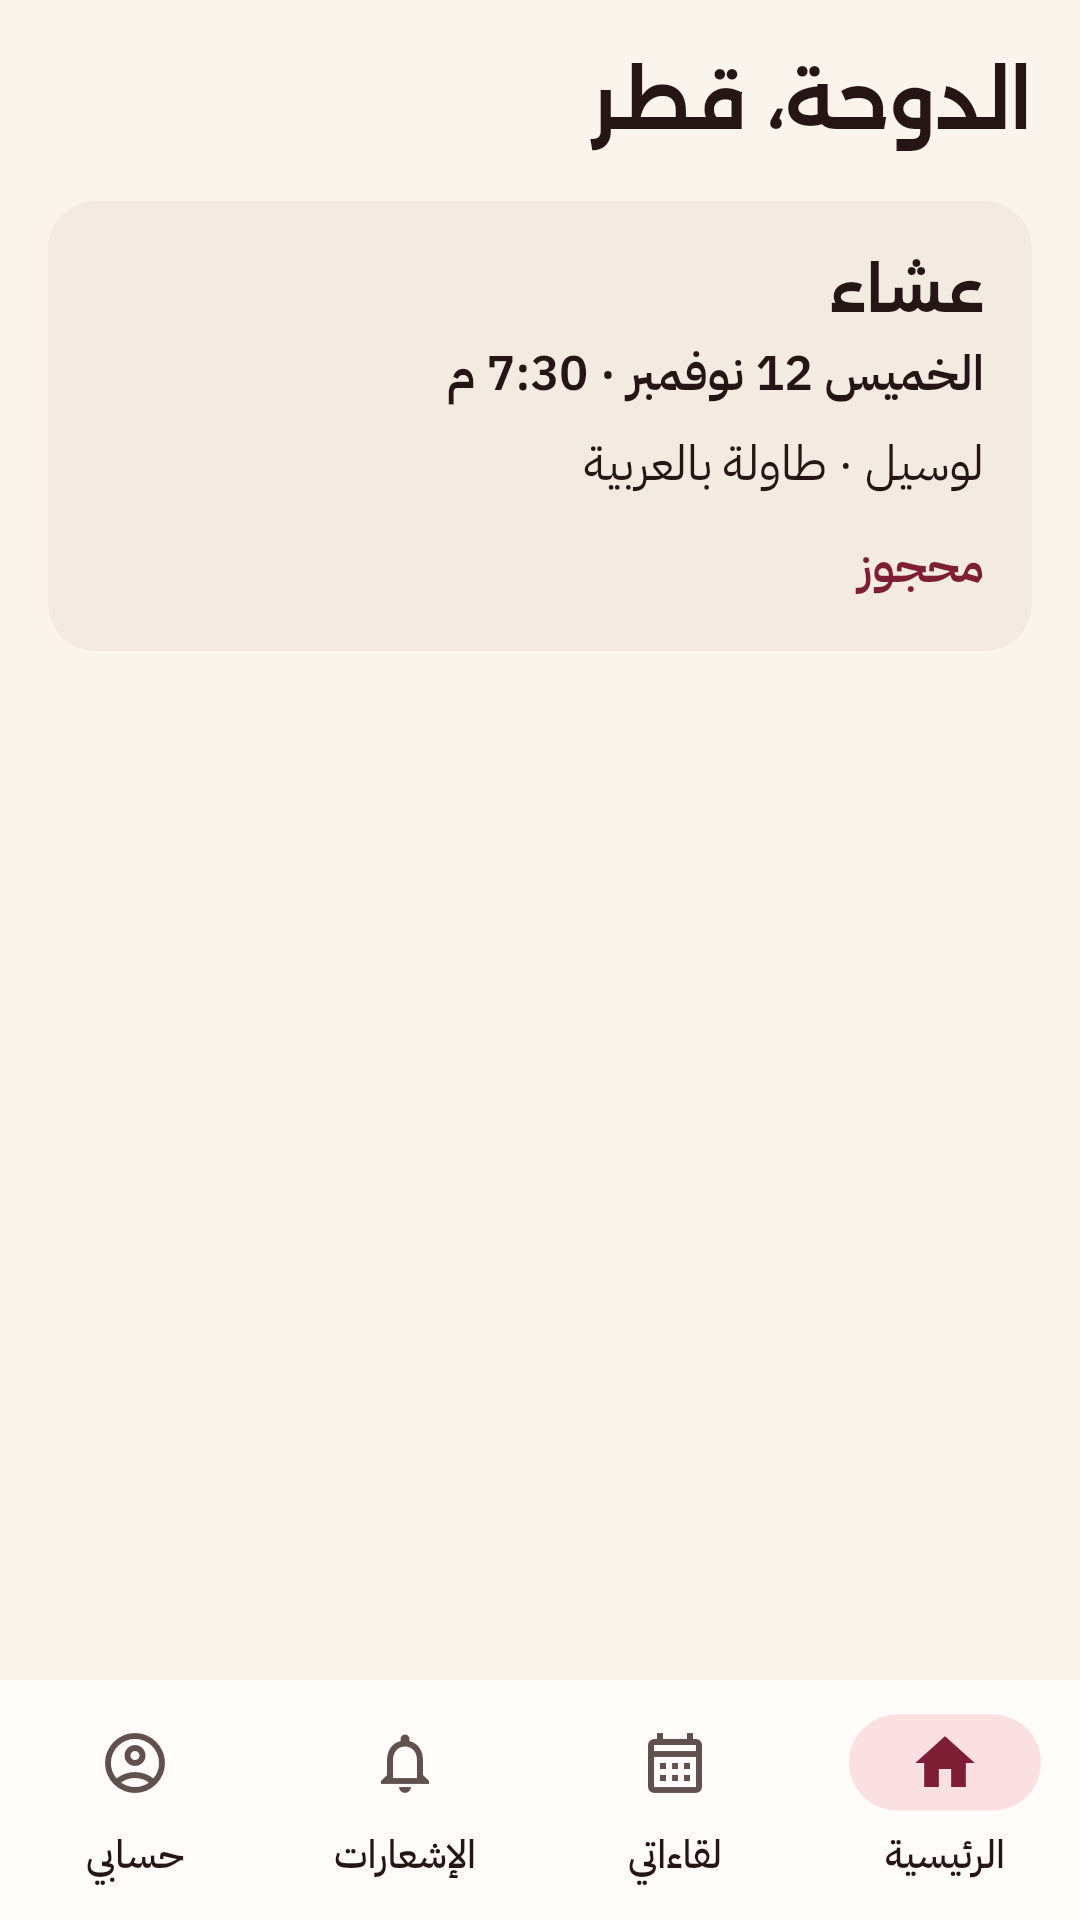
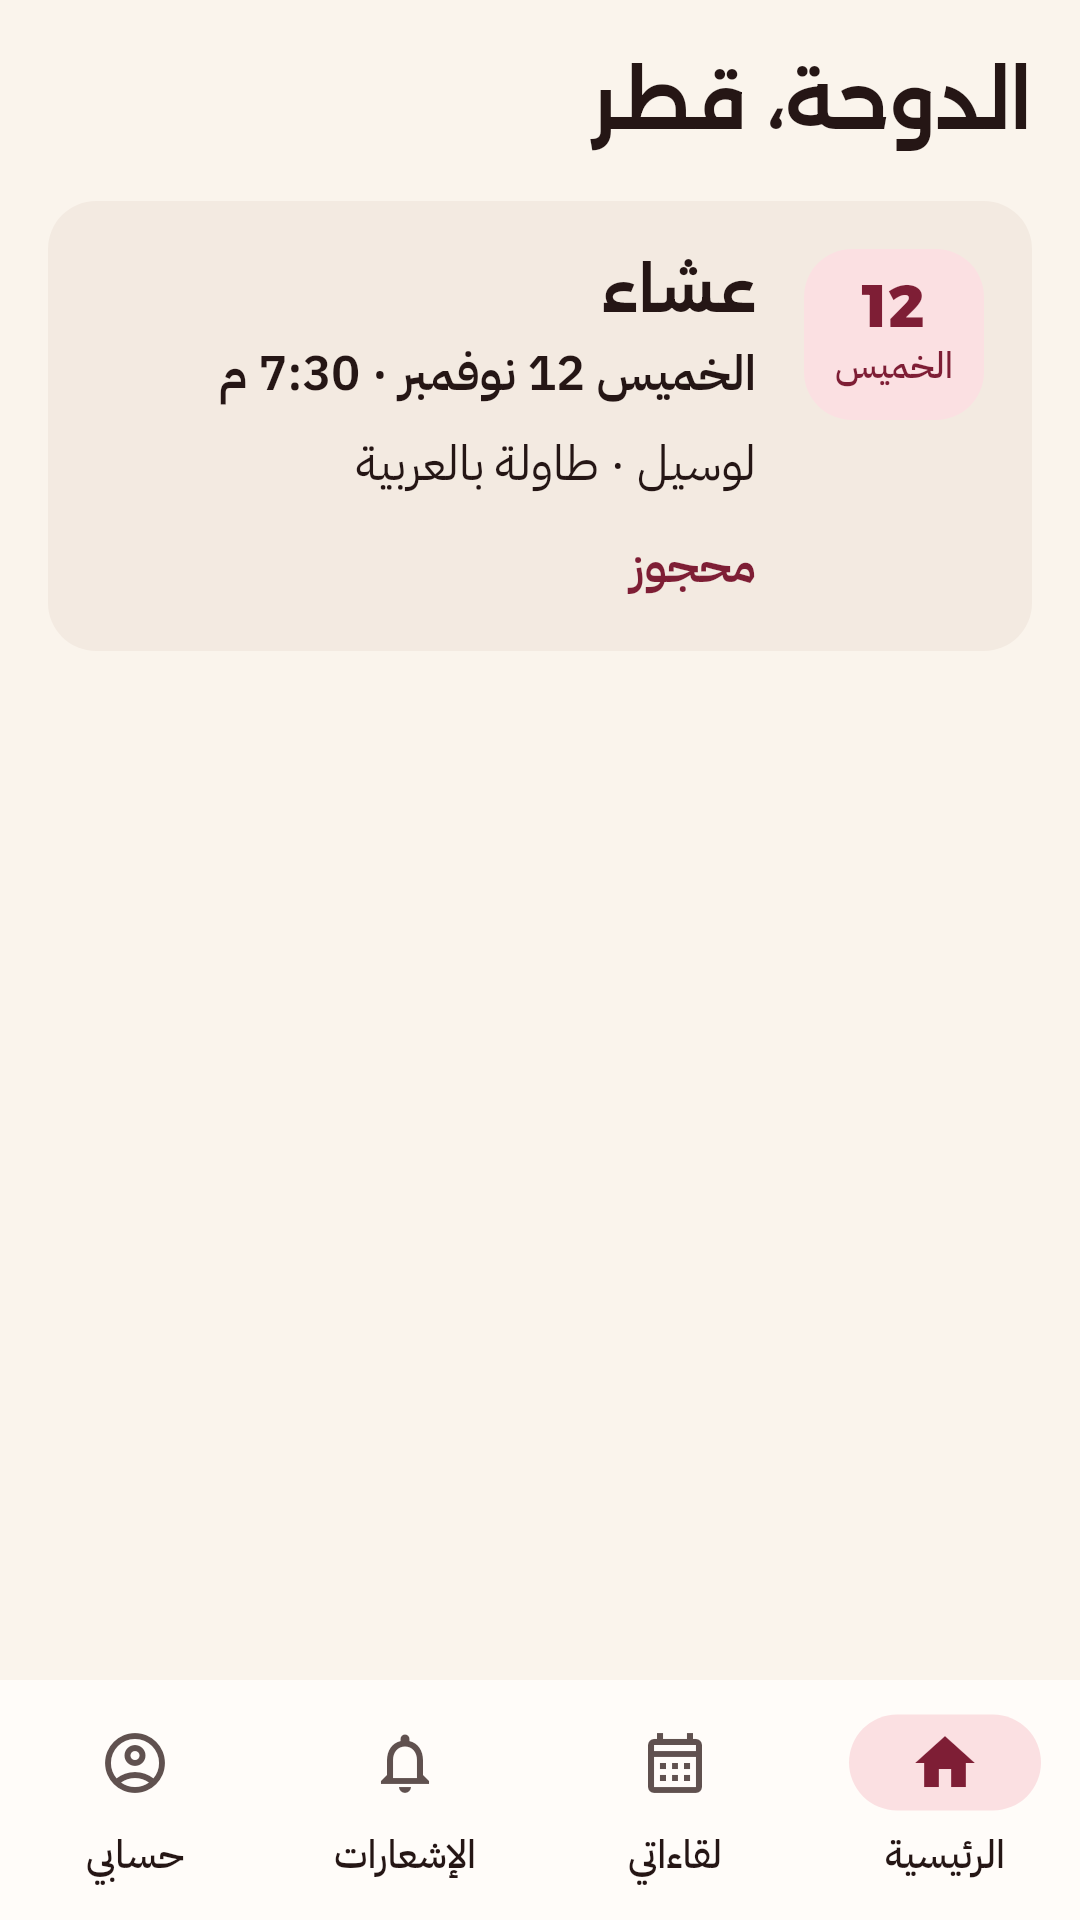
Visible redesign (Flutter app): wine next-meetup card, calendar-leaf dates, skeleton loading, list entrance
Same look and motion as the website (owner's choice, 5 Nov); headings unchanged.
- My meetups: the soonest upcoming meetup is the one filled card (brand colour, on-colour text,
  inverted button); the others stay a plain list. Strings reused from the website:
  "لقاؤك القادم" / "Your next event", "جارٍ التحميل…" / "Loading…"
- session cards: the date as a tinted calendar leaf (decoration, excluded from semantics)
- loading: SkeletonList (title and three cards, slow fade) instead of a spinner in Loader
- RiseIn: list items fade and lift in one after another, one controller and no timers
- both motion widgets stand still under the device's reduced-motion setting
- tests: next-meetup card colour, date leaf, skeleton and RiseIn with and without reduced motion
- store screenshots (iOS 6.9", Android) regenerated; handoff spec updated

flutter analyze: no issues; 43 app tests pass.

Claude-Session: https://claude.ai/code/session_01FEXgDqNsHx3oP1pnWG1BkE

diff --git a/qatar/app/lib/ui/common/motion.dart b/qatar/app/lib/ui/common/motion.dart
@@ -1,0 +1,117 @@
+import 'package:flutter/material.dart';
+
+import '../../design/herzone_tokens.dart';
+import '../theme.dart';
+
+/// Loading placeholder in the page's own rhythm (a title and three cards) instead of a spinner. It fades slowly in and
+/// out; when the device asks for reduced motion it stays still. Same shapes as the website's `.skel`.
+class SkeletonList extends StatefulWidget {
+  const SkeletonList({super.key, this.label});
+
+  /// Read out by screen readers while the page loads.
+  final String? label;
+
+  @override
+  State<SkeletonList> createState() => _SkeletonListState();
+}
+
+class _SkeletonListState extends State<SkeletonList> with SingleTickerProviderStateMixin {
+  late final AnimationController _c = AnimationController(vsync: this, duration: const Duration(milliseconds: 1400));
+  late final Animation<double> _fade = Tween<double>(begin: 1, end: 0.5).animate(CurvedAnimation(parent: _c, curve: Curves.easeInOut));
+  bool _running = false;
+
+  @override
+  void didChangeDependencies() {
+    super.didChangeDependencies();
+    final still = MediaQuery.of(context).disableAnimations;
+    if (still && _running) {
+      _c.stop();
+      _c.value = 0;
+      _running = false;
+    } else if (!still && !_running) {
+      _c.repeat(reverse: true);
+      _running = true;
+    }
+  }
+
+  @override
+  void dispose() {
+    _c.dispose();
+    super.dispose();
+  }
+
+  @override
+  Widget build(BuildContext context) {
+    final c = hzColors(context);
+    Widget box(double height, {double? widthFactor}) => FractionallySizedBox(
+          alignment: AlignmentDirectional.centerStart,
+          widthFactor: widthFactor ?? 1,
+          child: Container(height: height, decoration: BoxDecoration(color: c.surfaceSunken, borderRadius: BorderRadius.circular(HzRadius.md))),
+        );
+    return Semantics(
+      label: widget.label,
+      container: true,
+      child: ExcludeSemantics(
+        child: FadeTransition(
+          opacity: _fade,
+          child: ListView(
+            physics: const NeverScrollableScrollPhysics(),
+            padding: const EdgeInsets.all(HzSpace.gutter),
+            children: [
+              box(34, widthFactor: 0.55),
+              const SizedBox(height: HzSpace.s4),
+              box(92),
+              const SizedBox(height: HzSpace.s3),
+              box(92),
+              const SizedBox(height: HzSpace.s3),
+              box(64, widthFactor: 0.8),
+            ],
+          ),
+        ),
+      ),
+    );
+  }
+}
+
+/// Fades and lifts a list item into place, each [index] a little after the one before (like the website's lists).
+/// One controller, no timers: the item at [index] simply starts later in the same 600 ms. Shown at once when the device
+/// asks for reduced motion.
+class RiseIn extends StatefulWidget {
+  const RiseIn({super.key, required this.index, required this.child});
+
+  final int index;
+  final Widget child;
+
+  @override
+  State<RiseIn> createState() => _RiseInState();
+}
+
+class _RiseInState extends State<RiseIn> with SingleTickerProviderStateMixin {
+  late final AnimationController _c = AnimationController(vsync: this, duration: const Duration(milliseconds: 600));
+  Animation<double>? _a;
+
+  @override
+  void didChangeDependencies() {
+    super.didChangeDependencies();
+    if (_a != null) return;
+    final start = widget.index.clamp(0, 5) * 0.08;
+    _a = CurvedAnimation(parent: _c, curve: Interval(start, 1, curve: Curves.easeOutCubic));
+    if (MediaQuery.of(context).disableAnimations) {
+      _c.value = 1;
+    } else {
+      _c.forward();
+    }
+  }
+
+  @override
+  void dispose() {
+    _c.dispose();
+    super.dispose();
+  }
+
+  @override
+  Widget build(BuildContext context) => FadeTransition(
+        opacity: _a!,
+        child: SlideTransition(position: Tween<Offset>(begin: const Offset(0, 0.06), end: Offset.zero).animate(_a!), child: widget.child),
+      );
+}

diff --git a/qatar/app/test/redesign_test.dart b/qatar/app/test/redesign_test.dart
@@ -1,0 +1,58 @@
+import 'package:flutter/material.dart';
+import 'package:flutter_test/flutter_test.dart';
+import 'package:herzone/app/app.dart';
+import 'package:herzone/core/token_store.dart';
+import 'package:herzone/data/onboarding.dart';
+import 'package:herzone/data/trip_store.dart';
+import 'package:herzone/design/herzone_tokens.dart';
+import 'package:herzone/ui/common/motion.dart';
+import 'package:herzone/ui/theme.dart';
+
+import 'meetups_test.dart' show api, bookingId, tallScreen;
+import 'sign_in_flow_test.dart' show config;
+
+Widget _host(Widget child, {bool reduceMotion = false}) => MaterialApp(
+      theme: herZoneTheme(Brightness.light, 'ar'),
+      builder: (context, w) => MediaQuery(data: MediaQuery.of(context).copyWith(disableAnimations: reduceMotion), child: w!),
+      home: Scaffold(body: child),
+    );
+
+void main() {
+  testWidgets('my meetups: the next meetup is the one filled card, in the brand colour', (tester) async {
+    tallScreen(tester);
+    await tester.pumpWidget(HerZoneApp(config: config, tokens: MemoryTokenStore()..token = 'rt_1', trips: MemoryTripStore(), quizStore: QuizStore.memory(), httpClientFactory: () => api(online: () => true)));
+    await tester.pumpAndSettle();
+    await tester.tap(find.text('لقاءاتي').last);
+    await tester.pumpAndSettle();
+    expect(find.text('لقاؤك القادم'), findsOneWidget);
+    final card = tester.widget<Material>(find.byKey(const Key('booking-$bookingId')));
+    expect(card.color, HzColors.light.primary);
+  });
+
+  testWidgets('home: each session card carries its date as a calendar leaf', (tester) async {
+    tallScreen(tester);
+    await tester.pumpWidget(HerZoneApp(config: config, tokens: MemoryTokenStore()..token = 'rt_1', trips: MemoryTripStore(), quizStore: QuizStore.memory(), httpClientFactory: () => api(online: () => true)));
+    await tester.pumpAndSettle();
+    expect(find.descendant(of: find.byKey(const Key('session-s1')), matching: find.text('12')), findsOneWidget, reason: 'the day of the month, Western digits');
+    expect(find.descendant(of: find.byKey(const Key('session-s1')), matching: find.text('الخميس')), findsWidgets);
+  });
+
+  testWidgets('loading placeholder: it pulses, and stands still when the device asks for reduced motion', (tester) async {
+    await tester.pumpWidget(_host(const SkeletonList(label: 'جارٍ التحميل…')));
+    await tester.pump(const Duration(milliseconds: 300));
+    expect(tester.hasRunningAnimations, true, reason: 'a slow fade while loading');
+    await tester.pumpWidget(_host(const SkeletonList(label: 'جارٍ التحميل…'), reduceMotion: true));
+    await tester.pumpAndSettle(); // would time out if it kept animating
+    expect(find.bySemanticsLabel('جارٍ التحميل…'), findsOneWidget);
+  });
+
+  testWidgets('list items rise in one after another, and appear at once under reduced motion', (tester) async {
+    double opacityOf(WidgetTester t) => t.widget<FadeTransition>(find.descendant(of: find.byType(RiseIn), matching: find.byType(FadeTransition)).first).opacity.value;
+    await tester.pumpWidget(_host(const RiseIn(index: 3, child: Text('x'))));
+    expect(opacityOf(tester), lessThan(1), reason: 'starts hidden, arrives after the items before it');
+    await tester.pumpAndSettle();
+    expect(opacityOf(tester), 1);
+    await tester.pumpWidget(_host(const RiseIn(index: 3, child: Text('y')), reduceMotion: true));
+    expect(opacityOf(tester), 1, reason: 'no motion when it is not wanted');
+  });
+}

diff --git a/qatar/app/lib/ui/meetups/home_tab.dart b/qatar/app/lib/ui/meetups/home_tab.dart
@@ -8,6 +8,7 @@ import '../../design/herzone_tokens.dart';
 import '../../domain/locale_controller.dart';
 import '../../l10n/app_localizations.dart';
 import '../common/loader.dart';
+import '../common/motion.dart';
 import '../format.dart';
 import '../theme.dart';
 import '../common/test_id.dart';
@@ -31,7 +32,7 @@ class HomeTab extends StatelessWidget {
           Text(t.cityFull, style: Theme.of(context).textTheme.headlineMedium),
           const SizedBox(height: HzSpace.s4),
           if (sessions.isEmpty) Text(t.noSessions),
-          for (final s in sessions) _SessionCard(s),
+          for (final (i, s) in sessions.indexed) RiseIn(index: i, child: _SessionCard(s)),
         ]),
       ),
     );
@@ -61,14 +62,31 @@ class _SessionCard extends StatelessWidget {
                 : () => context.push('/book', extra: s),
         child: Padding(
           padding: const EdgeInsets.all(HzSpace.s4),
-          child: Column(crossAxisAlignment: CrossAxisAlignment.start, children: [
-            // the experience, then the date on its own line: a "·" never dangles at the end of a wrapped line
-            Text(experienceName(t, s.experience), style: Theme.of(context).textTheme.titleLarge),
-            Text(fmtWhen(s.startsAt, lang), style: Theme.of(context).textTheme.titleMedium),
-            const SizedBox(height: HzSpace.s1),
-            Text('${s.district} · ${s.language == 'ar' ? t.langAr : t.langEn}'),
-            const SizedBox(height: HzSpace.s2),
-            Text(status, style: TextStyle(color: s.isFull && s.myBookingId == null ? c.danger : c.primary, fontWeight: FontWeight.w600)),
+          child: Row(crossAxisAlignment: CrossAxisAlignment.start, children: [
+            // the date as a calendar leaf, as on the website (decoration: the date line beside it says the same)
+            ExcludeSemantics(
+              child: Container(
+                width: 60,
+                padding: const EdgeInsets.symmetric(vertical: HzSpace.s2),
+                decoration: BoxDecoration(color: c.primarySubtle, borderRadius: BorderRadius.circular(HzRadius.md)),
+                child: Column(children: [
+                  Text(fmtDay(s.startsAt), style: Theme.of(context).textTheme.headlineSmall?.copyWith(color: c.primary, fontWeight: FontWeight.w800, height: 1.05)),
+                  Text(fmtWeekday(s.startsAt, lang), maxLines: 1, overflow: TextOverflow.ellipsis, style: Theme.of(context).textTheme.labelSmall?.copyWith(color: c.primary)),
+                ]),
+              ),
+            ),
+            const SizedBox(width: HzSpace.s4),
+            Expanded(
+              child: Column(crossAxisAlignment: CrossAxisAlignment.start, children: [
+                // the experience, then the date on its own line: a "·" never dangles at the end of a wrapped line
+                Text(experienceName(t, s.experience), style: Theme.of(context).textTheme.titleLarge),
+                Text(fmtWhen(s.startsAt, lang), style: Theme.of(context).textTheme.titleMedium),
+                const SizedBox(height: HzSpace.s1),
+                Text('${s.district} · ${s.language == 'ar' ? t.langAr : t.langEn}'),
+                const SizedBox(height: HzSpace.s2),
+                Text(status, style: TextStyle(color: s.isFull && s.myBookingId == null ? c.danger : c.primary, fontWeight: FontWeight.w600)),
+              ]),
+            ),
           ]),
         ),
       ),

diff --git a/qatar/app/lib/ui/meetups/events_tab.dart b/qatar/app/lib/ui/meetups/events_tab.dart
@@ -9,6 +9,7 @@ import '../../domain/locale_controller.dart';
 import '../../l10n/app_localizations.dart';
 import '../common/loader.dart';
 import '../format.dart';
+import '../theme.dart';
 import 'home_tab.dart' show experienceName;
 import '../common/test_id.dart';
 
@@ -28,11 +29,15 @@ class EventsTab extends StatelessWidget {
         builder: (context, all, _) {
           final upcoming = all.where((b) => b.isActive).toList()..sort((a, b) => a.startsAt.compareTo(b.startsAt));
           final past = all.where((b) => !b.isActive).toList();
+          // the soonest upcoming meetup is the one filled card; the rest stay a plain list
+          final next = upcoming.isEmpty ? null : upcoming.first;
+          final rest = [...upcoming.skip(1), ...past];
           return ListView(padding: const EdgeInsets.all(HzSpace.gutter), children: [
             Text(t.tabEvents, style: Theme.of(context).textTheme.headlineMedium),
             const SizedBox(height: HzSpace.s4),
             if (all.isEmpty) ...[Text(t.noBookings), const SizedBox(height: HzSpace.s2), Text(t.bookOnWeb)],
-            for (final b in [...upcoming, ...past])
+            if (next != null) ...[_NextMeetupCard(b: next, lang: lang), const SizedBox(height: HzSpace.s4)],
+            for (final b in rest)
               TestId('booking-${b.id}', child: ListTile(
                 key: Key('booking-${b.id}'),
                 contentPadding: EdgeInsets.zero,
@@ -45,5 +50,48 @@ class EventsTab extends StatelessWidget {
         },
       ),
     );
+  }
+}
+
+/// "Your next event": the one filled card on this screen, in the brand colour with the on-colour text (as on the website).
+class _NextMeetupCard extends StatelessWidget {
+  const _NextMeetupCard({required this.b, required this.lang});
+
+  final BookingSummary b;
+  final String lang;
+
+  @override
+  Widget build(BuildContext context) {
+    final t = AppLocalizations.of(context);
+    final c = hzColors(context);
+    final tt = Theme.of(context).textTheme;
+    final soft = c.onPrimary.withValues(alpha: 0.88);
+    void open() => context.push('/booking/${b.id}');
+    return TestId('booking-${b.id}', child: Material(
+      key: Key('booking-${b.id}'),
+      color: c.primary,
+      borderRadius: BorderRadius.circular(HzRadius.xl),
+      child: InkWell(
+        borderRadius: BorderRadius.circular(HzRadius.xl),
+        onTap: open,
+        child: Padding(
+          padding: const EdgeInsets.all(HzSpace.s5),
+          child: Column(crossAxisAlignment: CrossAxisAlignment.start, children: [
+            Text(t.nextEvent, style: tt.labelMedium?.copyWith(color: soft)),
+            const SizedBox(height: HzSpace.s2),
+            Text(experienceName(t, b.experience), style: tt.headlineSmall?.copyWith(color: c.onPrimary)),
+            Text(fmtWhen(b.startsAt, lang), style: tt.titleMedium?.copyWith(color: c.onPrimary)),
+            const SizedBox(height: HzSpace.s1),
+            Text('${b.district} · ${t.bookingRef} ${b.ref}', style: tt.bodyMedium?.copyWith(color: soft)),
+            const SizedBox(height: HzSpace.s4),
+            FilledButton(
+              onPressed: open,
+              style: FilledButton.styleFrom(backgroundColor: c.onPrimary, foregroundColor: c.primary),
+              child: Text(t.viewDetails),
+            ),
+          ]),
+        ),
+      ),
+    ));
   }
 }

diff --git a/qatar/app/lib/ui/common/loader.dart b/qatar/app/lib/ui/common/loader.dart
@@ -4,6 +4,7 @@ import '../../core/api_error.dart';
 import '../../design/herzone_tokens.dart';
 import '../../l10n/app_localizations.dart';
 import '../auth/widgets.dart';
+import 'motion.dart';
 
 /// Loads data for a screen and shows loading, error (with retry) or the content. Pull to refresh reloads.
 class Loader<T> extends StatefulWidget {
@@ -29,7 +30,7 @@ class _LoaderState<T> extends State<Loader<T>> {
   Widget build(BuildContext context) => FutureBuilder<T>(
         future: _future,
         builder: (context, snap) {
-          if (snap.connectionState != ConnectionState.done) return const Center(child: CircularProgressIndicator());
+          if (snap.connectionState != ConnectionState.done) return SkeletonList(label: AppLocalizations.of(context).loading);
           if (snap.hasError) {
             final e = snap.error is ApiError ? snap.error as ApiError : const ApiError(status: 0, code: 'UNKNOWN', message: '');
             return ListView(padding: const EdgeInsets.all(HzSpace.gutter), children: [

diff --git a/qatar/app/lib/ui/format.dart b/qatar/app/lib/ui/format.dart
@@ -13,3 +13,7 @@ String _glueTime(String s) => s.replaceAllMapped(RegExp(r'(\d)[ \u202F](م|ص|AM
 String fmtWhen(String iso, String locale) => _glueTime(latinDigits(DateFormat('EEEE d MMMM · h:mm a', locale).format(qatarTime(iso))));
 
 String fmtTime(String iso, String locale) => _glueTime(latinDigits(DateFormat('h:mm a', locale).format(qatarTime(iso))));
+
+/// The day of the month and the weekday for the date "leaf" on session cards (Western digits, Doha time).
+String fmtDay(String iso) => latinDigits(DateFormat('d').format(qatarTime(iso)));
+String fmtWeekday(String iso, String locale) => DateFormat('EEEE', locale).format(qatarTime(iso));

diff --git a/qatar/app/lib/l10n/app_localizations.dart b/qatar/app/lib/l10n/app_localizations.dart
@@ -236,6 +236,18 @@ abstract class AppLocalizations {
   /// **'حاولي مرة أخرى'**
   String get retry;
 
+  /// No description provided for @nextEvent.
+  ///
+  /// In ar, this message translates to:
+  /// **'لقاؤك القادم'**
+  String get nextEvent;
+
+  /// No description provided for @loading.
+  ///
+  /// In ar, this message translates to:
+  /// **'جارٍ التحميل…'**
+  String get loading;
+
   /// No description provided for @signOut.
   ///
   /// In ar, this message translates to:

diff --git a/qatar/app/lib/l10n/app_localizations_ar.dart b/qatar/app/lib/l10n/app_localizations_ar.dart
@@ -85,6 +85,12 @@ class AppLocalizationsAr extends AppLocalizations {
   String get retry => 'حاولي مرة أخرى';
 
   @override
+  String get nextEvent => 'لقاؤك القادم';
+
+  @override
+  String get loading => 'جارٍ التحميل…';
+
+  @override
   String get signOut => 'تسجيل الخروج';
 
   @override

diff --git a/qatar/app/lib/l10n/app_localizations_en.dart b/qatar/app/lib/l10n/app_localizations_en.dart
@@ -86,6 +86,12 @@ class AppLocalizationsEn extends AppLocalizations {
   String get retry => 'Try again';
 
   @override
+  String get nextEvent => 'Your next event';
+
+  @override
+  String get loading => 'Loading…';
+
+  @override
   String get signOut => 'Sign out';
 
   @override

diff --git a/qatar/docs/design/handoff.md b/qatar/docs/design/handoff.md
@@ -55,7 +55,8 @@ Numbers use Western digits everywhere (web `fmtDate`, app `latinDigits`); prices
 ### Spacing, radius, motion
 Spacing `--s-1..12` = 4, 8, 12, 16, 20, 24, 32, 40, 48 px (Flutter `HzSpace.s1..s12`). Gutter 16–20 px.
 Radius: 10 (fields), 16 (cards, buttons), 24, pill. Elevation is flat: cards have no border and no shadow; only the top
-and tab bars have a soft scroll-edge shadow. Motion: 120 ms (press), 200 ms, 320 ms (page entrance), ease `cubic-bezier(0.2, 0, 0, 1)`.
+and tab bars have a soft scroll-edge shadow. Motion: 120 ms (press), 200 ms, 320 ms (page entrance), ease `cubic-bezier(0.2, 0, 0, 1)`. Headings stay light and modest (Alexandria 600; display 32 px, h1 26 px): the owner asked on 30 Oct for less weight and size, so
+visual emphasis comes from colour blocks and motion, not from larger headings.
 
 ## 3. Layout and breakpoints
 
@@ -84,6 +85,10 @@ Bottom space: `96px + safe-area` above the tab bar, `128px + safe-area` above a 
 | Tab bar | 4 items, 56 px tall, icon 24 + 12 px label, badge 12 px | selected = wine; the inbox badge shows the unread count (hidden at 0) |
 | Accordion | `.faq details` summary 52 px; consent-update accordions 44 px | open = "+" rotates 45° |
 | Hold pill | `#hold` pill above the pay button, MM:SS | expired = row replaced by "choose again" |
+| Next-meetup card | web `.next-card` (home) and `.card.hero` (My events); app `_NextMeetupCard` (My events). Fill `--c-primary`, text `--c-onPrimary` (88% for secondary lines, 80% for stepper labels), radius 24, the button is inverted (on-colour fill, brand text) | the only filled card on its screen; contrast 6.5-9.4:1 light, 5.5-7.6:1 dark (a web test checks every text on it) |
+| Date leaf | web `.event-card .d`; app session card (`fmtDay`, `fmtWeekday`) | 60 px square, `--c-primarySubtle` fill, day in `--c-primary` 800; decoration only (the date line beside it is read out) |
+| Loading skeleton | web `.skel`; app `SkeletonList` | a title bar and three cards in the page's rhythm, slow 1.4 s fade (opacity 1 to 0.5); still under reduced motion; a "loading" label for screen readers |
+| List entrance | web `main .list > li`; app `RiseIn(index)` | each item 50 ms (web) / 8% of 600 ms (app) after the one before, fade + 10 px lift, 360 ms, ease-out; none under reduced motion |
 | Table drawing | web `tableSvg`, app `TableArt(seats, filled, size)` | filled seat solid `--c-seat`, open seat dashed |
 
 ### Edge cases
